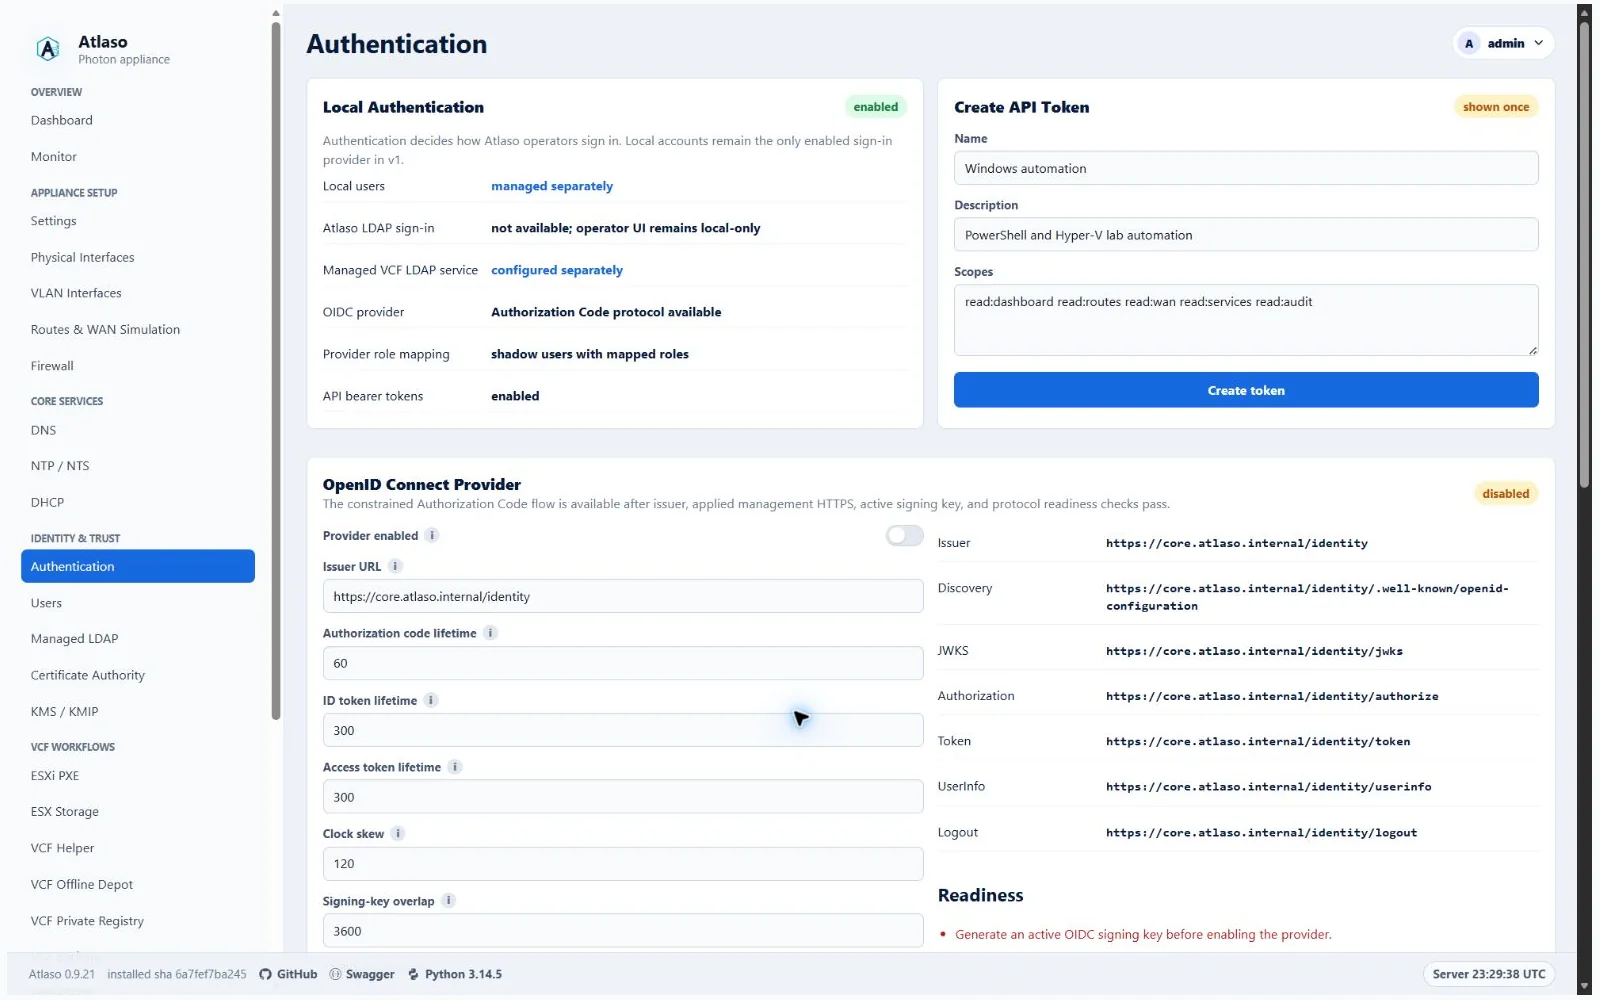
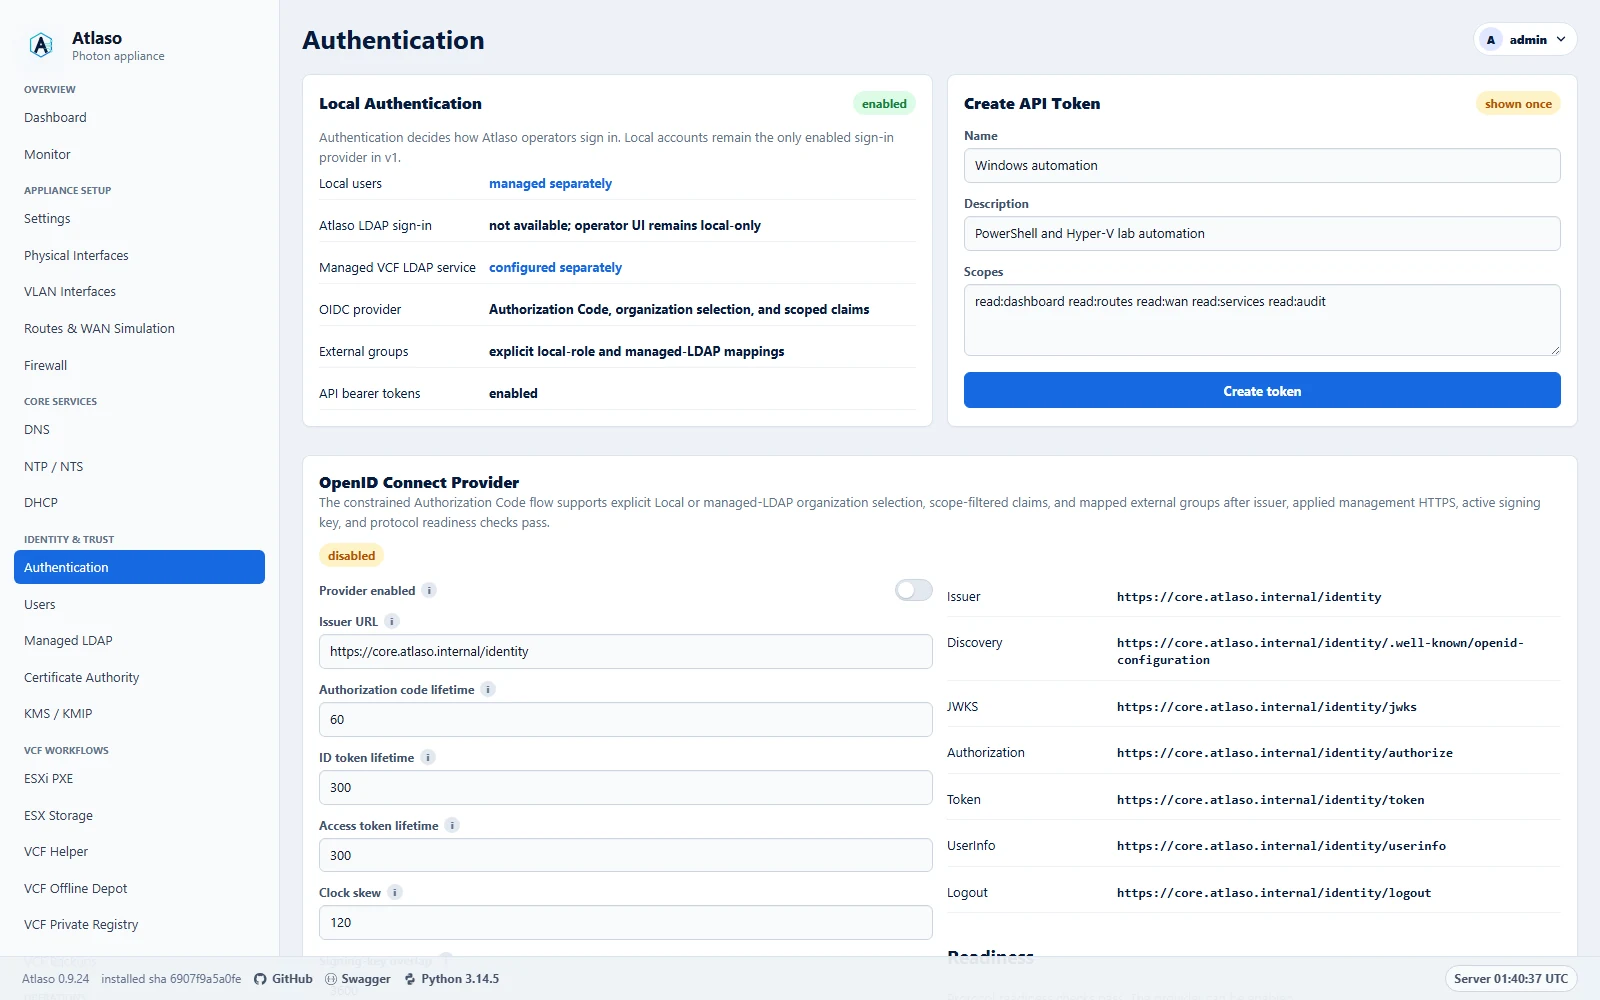
Align OIDC Phase 3 with documentation system

diff --git a/scripts/generate_screenshot_manifest.py b/scripts/generate_screenshot_manifest.py
@@ -13,6 +13,26 @@ SOURCE_COMMIT = "0247c34bc85e+working-tree"
 ATLASO_VERSION = "0.9.21"
 
 CAPTURE_OVERRIDES = {
+    "authentication-clean-desktop": {
+        "source_commit": "3083851+working-tree",
+        "atlaso_version": "0.9.24",
+        "capture_method": "playwright-chromium",
+    },
+    "authentication-clean-responsive": {
+        "source_commit": "3083851+working-tree",
+        "atlaso_version": "0.9.24",
+        "capture_method": "playwright-chromium",
+    },
+    "authentication-group-mappings-desktop": {
+        "source_commit": "3083851+working-tree",
+        "atlaso_version": "0.9.24",
+        "capture_method": "playwright-chromium",
+    },
+    "authentication-group-mappings-responsive": {
+        "source_commit": "3083851+working-tree",
+        "atlaso_version": "0.9.24",
+        "capture_method": "playwright-chromium",
+    },
     "swagger-clean-responsive": {
         "source_commit": "15caa646452",
         "atlaso_version": "0.9.22",
@@ -73,6 +93,18 @@ SPECIAL = {
         "review-modal",
         "Appliance change review with valid and invalid desired-state units.",
         "Review appliance changes dialog with selected valid units and one unit needing attention.",
+    ),
+    "authentication-group-mappings-desktop": (
+        "/authentication#oidc-group-mappings",
+        "group-mappings",
+        "OIDC external group mappings in the desktop direct-edit collection.",
+        "Atlaso Authentication page showing the OIDC external group mapping grid at the desktop viewport.",
+    ),
+    "authentication-group-mappings-responsive": (
+        "/authentication#oidc-group-mappings",
+        "group-mappings",
+        "OIDC external group mappings in the responsive direct-edit collection.",
+        "Atlaso Authentication page showing the OIDC external group mapping grid at the responsive viewport.",
     ),
     "dashboard-applied-desktop": (
         "/dashboard",

diff --git a/tests/test_photon_image.py b/tests/test_photon_image.py
@@ -845,13 +845,15 @@ def test_lifecycle_vmware_script_supports_routing_wan_only_and_esxi_pxe_install(
     runner = Path("scripts/windows/vmware/run-lifecycle-test.ps1").read_text(encoding="utf-8")
 
     assert "[switch]$RoutingWanOnly" in wrapper
+    assert "[switch]$OidcOnly" in wrapper
     assert "[switch]$FullEsxiPxeInstall" in wrapper
     assert "[string]$PxeInstallerIsoPath = ''" in wrapper
-    assert "$effectiveSkipBackupRestoreTest = [bool]($SkipBackupRestoreTest -or $RoutingWanOnly)" in wrapper
+    assert "$effectiveSkipBackupRestoreTest = [bool]($SkipBackupRestoreTest -or $RoutingWanOnly -or $OidcOnly)" in wrapper
+    assert "if ($OidcOnly) { $arguments += '-OidcOnly' }" in wrapper
     assert "if ($RoutingWanOnly) { $arguments += '-RoutingWanOnly' }" in wrapper
     assert "if ($FullEsxiPxeInstall) { $arguments += '-FullEsxiPxeInstall' }" in wrapper
     assert "if ($PxeInstallerIsoPath) { $arguments += @('-PxeInstallerIsoPath', $PxeInstallerIsoPath) }" in wrapper
-    assert "-RoutingWanOnly and -FullEsxiPxeInstall are mutually exclusive." in wrapper
+    assert "-OidcOnly, -RoutingWanOnly, and -FullEsxiPxeInstall are mutually exclusive." in wrapper
 
     assert "function Get-GuestIPv4ViaGuestOps" in runner
     assert "function Invoke-VmrunBounded" in runner

diff --git a/atlaso/__init__.py b/atlaso/__init__.py
@@ -6,7 +6,7 @@ try:
     from atlaso._build import BUILD_TIME_UTC, BUILD_VERSION, GIT_COMMIT
 except ImportError:
     BUILD_TIME_UTC = ""
-    BUILD_VERSION = "0.9.23"
+    BUILD_VERSION = "0.9.24"
     GIT_COMMIT = ""
 
 __version__ = BUILD_VERSION

diff --git a/docs/services/oidc-provider.md b/docs/services/oidc-provider.md
@@ -10,8 +10,9 @@ status: current
 # Constrained OpenID Connect provider
 
 Atlaso is delivering an in-process OpenID Connect provider for appliance integrations and VCF lab environments in five
-reviewable phases. Phase 2 provides the constrained Authorization Code protocol surface. Provider enablement requires
-the applied management HTTPS setting, canonical issuer, active RS256 key, and protocol readiness.
+reviewable phases. Phase 3 adds explicit organization selection, current-state claims, and privacy-safe
+local-role/LDAP-group mappings to the constrained Authorization Code protocol surface. Provider enablement requires the
+applied management HTTPS setting, canonical issuer, active RS256 key, and protocol readiness.
 
 ## Architecture and trust boundaries
 
@@ -87,30 +88,69 @@ conditional `UPDATE ... RETURNING` operation, so a code can succeed once even wh
 
 `/identity/authorize`, `/identity/token`, `/identity/userinfo`, and `/identity/logout` require HTTPS. A forwarded HTTPS
 indication is trusted only from the loopback management proxy. Browser authentication rotates the OIDC session
-identifier and CSRF value and never sets an operator UI user session. Unbound clients permit local identities only; an
-organization-bound client permits only its fixed enabled managed-LDAP organization.
+identifier and CSRF value and never sets an operator UI user session.
 
-ID and access tokens have five-minute lifetimes, client ID audience, and fixed `JWT` / `at+jwt` types. UserInfo
-validates the signing key, fixed algorithm, issuer, audience, expiry, source, organization and subject before returning
-claims. Logout requires a valid ID-token hint for a post-logout redirect and matches that URI byte-for-byte before
-returning optional state.
+An organization-bound client permits only its configured enabled managed-LDAP organization. Its sign-in page names that
+organization and contains no source selector; a submitted source value is rejected. An unbound client requires an
+explicit **Local** or enabled managed-LDAP organization selection on every interactive sign-in. The server resolves the
+exact selection against current persisted state. It never infers a source from a username, so identical usernames in
+Local and multiple organizations remain unambiguous, and it never treats a form-provided organization ID as trusted.
+
+ID and access tokens have five-minute lifetimes, client ID audience, and fixed `JWT` / `at+jwt` types. UserInfo validates
+the signing key, fixed algorithm, issuer, audience, expiry, client, identity source, organization, and subject against
+current database state before returning claims. Disabling a client, managed LDAP source, organization, or user blocks
+new authorization and token issuance immediately and makes UserInfo reject an existing access token. Already-issued
+JWTs remain bounded by the existing short lifetime. Logout requires a valid ID-token hint for a post-logout redirect and
+matches that URI byte-for-byte before returning optional state.
+
+## Claims and external group mappings
+
+Claims are filtered strictly by the scopes granted to the authorization code:
+
+- `openid` supplies required protocol claims such as opaque `sub`, issuer, audience, timestamps, authentication time,
+  and nonce.
+- `profile` adds `preferred_username`, display `name`, and the selected `organization`.
+- `email` adds `email` and always sets `email_verified` to `false`; Atlaso does not verify mailbox ownership.
+- `groups` adds a sorted list of explicit external mapping values.
+
+The Authentication page provides a direct-edit mapping grid for local Atlaso roles and managed LDAP groups. A mapping
+with no client is the Local or organization default. A client-specific mapping for the same source replaces that
+default; it does not append a second name. Local mappings may target only unbound clients. LDAP mappings may target
+unbound clients or clients bound to the group's organization. Atlaso rejects duplicate source/scope rows and
+case-insensitive collisions among effective external names for every affected client and identity organization.
+
+Local group claims are derived from the user's current normalized Atlaso roles. Managed LDAP group claims use current
+enabled direct and nested memberships from the existing cycle-safe group graph. Disabled groups and memberships that no
+longer exist stop contributing immediately. Only the configured external strings are emitted. LDAP group names, DNs,
+suffixes, bind identities, endpoints, server details, and unmapped names never enter ID tokens, access tokens, UserInfo,
+jobs, audits, or logs.
+
+![OIDC external group mapping grid at the desktop viewport](../assets/screenshots/authentication-group-mappings-desktop.webp)
+
+The direct-edit collection keeps source, organization, optional client override, and external name in one compact
+workspace. The responsive capture shows the same server-backed mapping contract at the narrow documentation viewport.
+
+![OIDC external group mapping grid at the responsive viewport](../assets/screenshots/authentication-group-mappings-responsive.webp)
 
 ## Backup, restore, reset, and key custody
 
 Settings backup includes provider settings, stable subject mappings, confidential-client metadata and Argon2 hashes,
-exact redirects, and encrypted signing private keys. It never includes plaintext client secrets or identity passwords. A
-restored signing key is usable only with the same `ATLASO_SECRETS_KEY`; preserve that key through the appliance recovery
-process.
+exact redirects, local-role/LDAP-group mappings, and encrypted signing private keys. Mappings use stable archive
+references such as organization slug, group name, and public client ID rather than copying database IDs. It never
+includes plaintext client secrets or identity passwords. A restored signing key is usable only with the same
+`ATLASO_SECRETS_KEY`; preserve that key through the appliance recovery process.
 
-Factory reset deletes provider settings, clients, redirects, subjects, and signing keys before reseeding disabled
-defaults. Normal database upgrades are additive: older binaries ignore the new tables. Do not destructively drop OIDC
-tables during ordinary downgrade. If complete rollback requires their removal, restore the pre-upgrade SQLite snapshot.
+Factory reset deletes provider settings, clients, redirects, subjects, group mappings, and signing keys before reseeding
+disabled defaults. Normal database upgrades create the mapping table additively through the existing metadata startup
+path; older databases retain their records. Older binaries ignore the new table. Do not destructively drop OIDC tables
+during ordinary downgrade. If complete rollback requires their removal, restore the pre-upgrade SQLite snapshot.
 
 ## Staged rollout and unsupported features
 
 1. Authentication foundation and disabled provider skeleton.
 2. Authorization Code flow, browser-session hardening, token issuance, UserInfo, and RP-initiated logout.
-3. Organization selection, scope-filtered claims, and explicit local-role/LDAP-group mappings.
+3. Organization selection, scope-filtered current-state claims, and explicit local-role/LDAP-group mappings. **Delivered
+   in this phase.**
 4. Administration and lifecycle completion, issuer/applied-certificate validation, centralized redaction, and
    integration export.
 5. VCF 9.1 interoperability and all acceptance scenarios.

diff --git a/docs/contribute/agent-policies.md b/docs/contribute/agent-policies.md
@@ -654,6 +654,18 @@ status: current
   list.
 - Users need roles because Atlaso is expected to support OIDC. LDAP/OIDC integrations should support group-to-role
   mapping.
+- Organization-bound OIDC clients authenticate only against their configured enabled managed LDAP organization and
+  must not render an organization selector. Unbound clients require an explicit server-validated `Local` or enabled
+  managed LDAP organization choice; never infer a source from an ambiguous username or accept a raw organization ID
+  from a form.
+- OIDC external groups come only from explicit local-role or managed-LDAP-group mappings. Organization defaults apply
+  first and a compatible client mapping replaces the default for the same source. Enforce case-insensitive uniqueness
+  of effective names per client and identity organization, resolve enabled direct and nested LDAP membership through
+  the cycle-safe graph, and never emit LDAP DNs, server details, or unmapped group names.
+- Filter OIDC identity claims by granted scope: `openid` carries required protocol claims, `profile` adds username,
+  display name, and organization, `email` adds email with `email_verified=false`, and `groups` adds mapped external
+  names. Authorization and UserInfo must revalidate current client, source, organization, user, and group state; the
+  existing short JWT lifetime is the only bound on already-issued tokens.
 - Managed LDAP organizations follow the DNS-zone interaction pattern: organization tabs include a `+ Organization`
   creation tab, while users and groups are compact editable Tabulator grids with bottom add rows and context-menu
   actions. Synthetic lab-directory generation asks for user and group counts, invents complete profile and membership

diff --git a/docs/services/managed-ldap.md b/docs/services/managed-ldap.md
@@ -87,6 +87,19 @@ The VCF 9.1 mapping includes:
 Atlaso does not import LDAP groups into VCF or assign VCF organization roles. Complete those steps in VCF Automation and
 retain local break-glass administrators.
 
+## OIDC organization and group use
+
+Managed LDAP can also supply identities to Atlaso's constrained OIDC provider. A bound OIDC client uses only its
+configured enabled organization and does not show an organization selector. An unbound client requires the user to
+choose **Local** or one currently enabled organization; duplicate usernames across organizations are therefore never
+used to infer a source.
+
+The Authentication page maps selected managed LDAP groups to external OIDC group names. Atlaso evaluates current enabled
+direct and nested membership through the same cycle-safe group graph used by the directory model. Organization mappings
+are defaults; a compatible client-specific mapping replaces the default for the same LDAP group. Only mapped external
+values are emitted when the client receives the `groups` scope. Raw LDAP group names, DNs, suffixes, listener details,
+disabled groups, and unmapped groups remain private.
+
 ## Apply and recovery
 
 The `ldap` apply unit stages secret-bearing JSON at `/var/lib/atlaso/apply/ldap/atlaso-ldap.json` with mode `0600`. The

diff --git a/README.md b/README.md
@@ -13,6 +13,8 @@ brings infrastructure, storage, identity, networking, and lifecycle workflows in
 - [Getting started](docs/getting-started/index.md) — choose an appliance path and complete initial setup.
 - [Operations](docs/operate/index.md) — run the appliance and review desired-state changes.
 - [Services](docs/services/index.md) — configure DNS, identity, storage, network boot, and VCF integrations.
+- [OpenID Connect provider](docs/services/oidc-provider.md) — configure explicit identity sources, scoped claims, and
+  privacy-safe external group mappings.
 - [Technical reference](docs/reference/index.md) — API, image building, lifecycle testing, and detailed behavior.
 - [Contributing](CONTRIBUTING.md) — issue, version, validation, and pull-request requirements.
 

diff --git a/AGENTS.md b/AGENTS.md
@@ -50,5 +50,7 @@ The following cross-cutting boundaries always apply:
 - Keep development system adapters in dry-run mode unless a reviewed apply unit explicitly promotes real mutation.
 - VMware Workstation is the default live appliance target; use Hyper-V lifecycle coverage for exact VLAN behavior.
 - Validate live appliance readiness through `/openapi.json`, not VMware Tools IP discovery or service color alone.
+- OIDC clients use explicit validated identity sources and emit only granted, explicitly mapped claims; see the detailed
+  agent policies and canonical OIDC service guide.
 - Never expose credentials, authenticated URLs, private keys, raw secrets, or secret-bearing commands in UI, jobs,
   audits, logs, documentation, screenshots, or video.

diff --git a/docs/reference/vmware-workstation-lifecycle-testing.md b/docs/reference/vmware-workstation-lifecycle-testing.md
@@ -84,6 +84,11 @@ default runs the restored backup/restore pass. Pass `-SkipBackupRestoreTest` onl
 intended. Unless `-ApplianceIPAddress` is passed, the wrapper waits for VMware Tools to report the appliance's DHCP
 management IPv4 address and derives the appliance URL from that discovered address.
 
+For focused deployed OIDC acceptance independent of the full service-network topology, pass `-OidcOnly`. The wrapper
+still clones the selected appliance, installs the exact branch wheel, proves appliance readiness, and runs the OIDC
+Authorization Code acceptance check. It skips unrelated multi-NIC service configuration, client VM creation and probes,
+and the backup/restore pass.
+
 Useful commands:
 
 ```powershell
